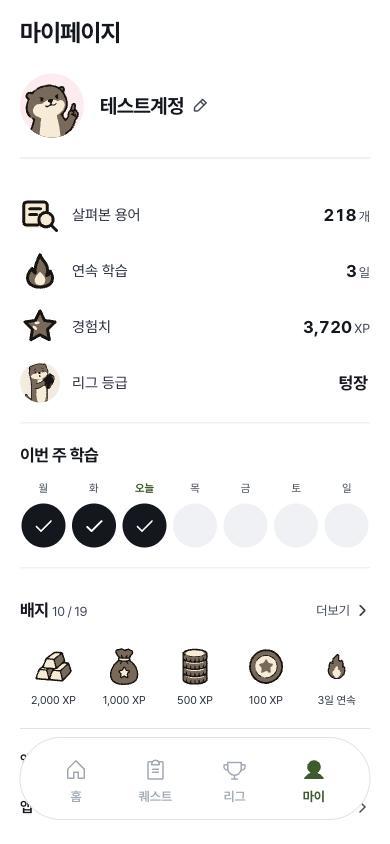
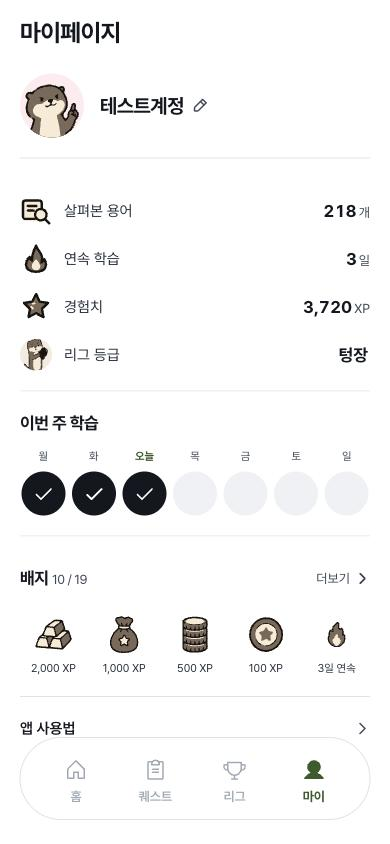
마이 통계 아이콘 28px에서 24px, 리그 얼굴 40px에서 32px로 축소 / 에너지 시트 번개·광고 아이콘 수달 3색 그림으로 교체

diff --git a/src/pages/MyPageScreen.tsx b/src/pages/MyPageScreen.tsx
@@ -65,11 +65,11 @@ const MyPageScreen = () => {
           <div className="my-page-stats-grid">
             {/* 통계 아이콘은 수달 3색 그림(public/icons/stat) */}
             {[
-              { icon: <img src="/icons/stat/icon-terms.svg" alt="" width={28} height={28} data-stat-icon="terms" />, color: STAT_COLOR.words, label: '살펴본 용어', value: viewedIds.size.toLocaleString(), unit: '개' },
-              { icon: <img src="/icons/stat/icon-streak.svg" alt="" width={28} height={28} data-stat-icon="streak" />, color: STAT_COLOR.streak, label: '연속 학습', value: streak.toLocaleString(), unit: '일' },
-              { icon: <img src="/icons/stat/icon-xp.svg" alt="" width={28} height={28} data-stat-icon="xp" />, color: STAT_COLOR.xp, label: '경험치', value: xp.toLocaleString(), unit: 'XP' },
+              { icon: <img src="/icons/stat/icon-terms.svg" alt="" width={24} height={24} data-stat-icon="terms" />, color: STAT_COLOR.words, label: '살펴본 용어', value: viewedIds.size.toLocaleString(), unit: '개' },
+              { icon: <img src="/icons/stat/icon-streak.svg" alt="" width={24} height={24} data-stat-icon="streak" />, color: STAT_COLOR.streak, label: '연속 학습', value: streak.toLocaleString(), unit: '일' },
+              { icon: <img src="/icons/stat/icon-xp.svg" alt="" width={24} height={24} data-stat-icon="xp" />, color: STAT_COLOR.xp, label: '경험치', value: xp.toLocaleString(), unit: 'XP' },
               // 리그 등급도 같은 통계 줄에 둔다(그림 + 이름). 승급 조건은 리그 안내 시트에만 쓴다
-              { icon: <StageFace id={leagueStage ?? 1} size={40} />, color: undefined, label: '리그 등급', value: getGrowthStage(leagueStage ?? 1).name, unit: '' },
+              { icon: <StageFace id={leagueStage ?? 1} size={32} />, color: undefined, label: '리그 등급', value: getGrowthStage(leagueStage ?? 1).name, unit: '' },
             ].map(it => (
               // 긴 값은 열 전체를 사용한다. 숫자를 줄이거나 반올림하지 않는다.
               <div key={it.label} className={`my-page-stat${it.value.length > 7 ? ' is-wide' : ''}`}>

diff --git a/src/components/EnergyShopContent.tsx b/src/components/EnergyShopContent.tsx
@@ -1,7 +1,5 @@
-import { Tv } from './ui/OtterIcons';
 import { ChevronRight } from './ui/ControlIcons';
 import { ENERGY_AD_REWARD, ENERGY_REGEN_MS } from '../constants';
-import { EnergyIcon } from './StatIcons';
 
 type Props = {
   energy: number;
@@ -40,7 +38,7 @@ export const EnergyShopContent = ({
     <div className="energy-shop-content">
       <section className="energy-shop-summary" aria-label="현재 에너지">
         <div className="energy-shop-summary-heading">
-          <EnergyIcon size={24} />
+          <img src="/icons/stat/icon-energy.svg" alt="" width={24} height={24} data-stat-icon="energy" />
           <div className="energy-shop-balance"><h2>학습 에너지</h2><p><strong>{energy}</strong><span>/ {energyMax}</span></p></div>
           <span className="energy-shop-state" data-full={full}>{full ? '충전 완료' : '충전 중'}</span>
         </div>
@@ -53,7 +51,7 @@ export const EnergyShopContent = ({
       <section className="energy-shop-section" aria-label="에너지 충전 방법">
         <h2>충전 방법</h2>
         <button type="button" onClick={onEnergyAd} disabled={full || adDisabled} className="energy-shop-option" data-energy-option="ad">
-          <Tv size={24} />
+          <img src="/icons/stat/icon-energy-ad.svg" alt="" width={24} height={24} data-stat-icon="energy-ad" />
           <span className="energy-shop-option-body"><strong>광고 보고 에너지 받기</strong><span>시청 보상 에너지 +{ENERGY_AD_REWARD}</span></span>
           <span className="energy-shop-option-state">{full ? '가득 찼어요' : adHint}{!(full || adDisabled) && <ChevronRight size={16} />}</span>
         </button>

diff --git a/src/index.css b/src/index.css
@@ -399,7 +399,7 @@ svg:is(.text-brand-300, .text-brand-400, .text-brand-500, .text-brand-600, .text
 .my-page-stats-grid { display: flex; flex-direction: column; gap: var(--space-4); }
 .my-page-stat { display: flex; min-width: 0; align-items: center; gap: var(--space-3); }
 /* 아이콘(24px)과 등급 원(40px)의 자리를 40px로 맞춰 이름 시작선을 맞춘다 */
-.my-page-stat > svg, .my-page-stat > img { flex: 0 0 40px; width: 40px; object-fit: contain; }
+.my-page-stat > svg, .my-page-stat > img { flex: 0 0 32px; width: 32px; object-fit: contain; }
 .my-page-stat.is-wide { grid-column: auto; }
 .my-page-stat-label { display: flex; flex: 1; min-width: 0; align-items: center; color: var(--color-ink-2); font-size: var(--font-size-body); white-space: nowrap; }
 .my-page-stat-value { display: flex; align-items: baseline; justify-content: flex-end; gap: 2px; color: var(--color-ink); font-size: var(--font-size-headline); font-weight: var(--font-weight-bold); line-height: var(--line-height-tight); font-variant-numeric: tabular-nums; }

diff --git a/DESIGN.md b/DESIGN.md
@@ -179,7 +179,7 @@
 - 키보드 포커스 링은 2px 강조 글자색(`--color-accent-foreground`)이다.
 - 채움(`fill`)은 활성 탭 아이콘에만 쓴다. 듀오톤은 쓰지 않는다.
 - 재화·통계(`StatIcons.tsx`): 모두 글자색 단색 선형. 포인트 컬러는 보라 하나라 아이콘에 따로 색을 주지 않는다.
-- 단, 마이 화면 통계 3종(살펴본 용어·연속 학습·경험치)은 수달 3색 그림 아이콘(`public/icons/stat/icon-{terms,streak,xp}.svg`, 28px)을 쓴다.
+- 단, 마이 화면 통계 3종(살펴본 용어·연속 학습·경험치)은 수달 3색 그림 아이콘(`public/icons/stat/icon-{terms,streak,xp}.svg`, 24px, 리그 얼굴 32px)을 쓴다.
 - 등급(`StageGlyph.tsx`): 달리 장면 10종. 텅장 빈 지갑 → 가계부 → 짠테크 돈 세기 → 적금 저금통 → 갓생 안경·폰 → 정보통 신문 → 재테크 차트 → 존버 명상 → 자산가 금고 → 돈방석.
 - 배지(`BadgeGlyph.tsx`): 펼친 책·책 두 권·책 더미·학사모(단어), 작은 불꽃·큰 불꽃·체크 달력(연속), 별 동전·동전 더미·별 돈주머니(XP). `docs/character/badges/trace_badges.py`로 벡터화했다.
 - 장식 아이콘은 `aria-hidden`. 의미는 옆 글자나 `aria-label`로 전달한다.
